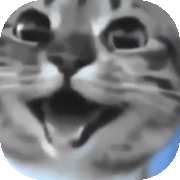
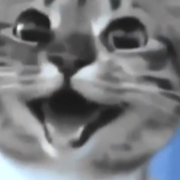
Mais leve: música só baixa quando a pessoa interage, prévia só no PC e só se puder tocar, fontes no próprio site, desenho/troll carregam no primeiro mouse, ícone 61 KB -> 4 KB; celular sem efeitos que repintam a cada quadro
Claude-Session: https://claude.ai/code/session_012FbBvXgu9r4oKB1PUemmbG

diff --git a/index.html b/index.html
@@ -10,10 +10,10 @@
 <body>
 <title>Ärïes</title>
 <meta name="claude:viewport-fit-sides" content="cover">
-<link rel="preconnect" href="https://fonts.googleapis.com">
-<link rel="preconnect" href="https://fonts.gstatic.com" crossorigin>
-<link rel="stylesheet" href="https://fonts.googleapis.com/css2?family=New+Rocker&family=IBM+Plex+Mono:wght@400;500;600&display=swap">
 <style>
+@font-face{font-family:"New Rocker";font-style:normal;font-weight:400;font-display:swap;src:url("assets/fonts/new-rocker.woff2") format("woff2")}
+@font-face{font-family:"IBM Plex Mono";font-style:normal;font-weight:400;font-display:swap;src:url("assets/fonts/plex-mono-400.woff2") format("woff2")}
+@font-face{font-family:"IBM Plex Mono";font-style:normal;font-weight:500 700;font-display:swap;src:url("assets/fonts/plex-mono-500.woff2") format("woff2")}
 /* Layout: tela de entrada com o nome em glitch; depois, um cartão de vidro bem transparente, inclinando em 3D com camadas em paralaxe, sobre fundo preto com glow. */
 :root{
   --ink:#000000;
@@ -52,7 +52,7 @@ body{
 
 /* desenho da esquerda: invisível, revelado por uma "lanterna" que segue o mouse */
 .art-left{position:fixed;left:2.5vw;top:50%;height:min(84vh,1040px);aspect-ratio:675/1200;max-width:28vw;transform:translateY(-50%);z-index:2;opacity:0;
-  background:url("assets/arte-esquerda.webp") center/contain no-repeat;mix-blend-mode:screen;--lx:50%;--ly:50%;
+  background:center/contain no-repeat;mix-blend-mode:screen;--lx:50%;--ly:50%;
   -webkit-mask-image:radial-gradient(300px circle at var(--lx) var(--ly),#000 0%,rgba(0,0,0,.75) 35%,rgba(0,0,0,.12) 70%,transparent 100%);
   mask-image:radial-gradient(300px circle at var(--lx) var(--ly),#000 0%,rgba(0,0,0,.75) 35%,rgba(0,0,0,.12) 70%,transparent 100%);
   transition:opacity .8s ease,transform .8s cubic-bezier(.2,.8,.2,1)}
@@ -94,10 +94,12 @@ body{
   background:#050506;border:1px solid rgba(255,255,255,.18);color:var(--fg);opacity:0;transition:opacity .2s;pointer-events:none;box-shadow:0 0 14px rgba(255,255,255,.12)}
 .side-soc:hover .side-lbl,.side-soc:focus-visible .side-lbl{opacity:1}
 .troll{position:fixed;z-index:2;right:1.5vw;bottom:2vh;width:min(22vw,260px);aspect-ratio:1/.87;--lx:50%;--ly:50%;
-  background:url("assets/troll.webp") center/contain no-repeat;opacity:0;transition:opacity .8s ease;
+  background:center/contain no-repeat;opacity:0;transition:opacity .8s ease;
   -webkit-mask-image:radial-gradient(170px circle at var(--lx) var(--ly),#000 0%,rgba(0,0,0,.7) 40%,transparent 100%);
   mask-image:radial-gradient(170px circle at var(--lx) var(--ly),#000 0%,rgba(0,0,0,.7) 40%,transparent 100%)}
 .troll:hover{opacity:1}
+.hascur .art-left{background-image:url("assets/arte-esquerda.webp")}
+.hascur .troll{background-image:url("assets/troll.webp")}
 @media (max-width:1000px),(hover:none){.side-soc,.troll{display:none}}
 
 /* glitch (nome) */
@@ -389,6 +391,18 @@ body.entered .lay{animation:rise .8s cubic-bezier(.2,.8,.2,1) backwards;animatio
   .vol{width:38px;height:38px}
   .toast{bottom:calc(16px + env(safe-area-inset-bottom,0px))}
 }
+
+/* celular: sem efeitos que repintam sombras a cada quadro */
+@media (hover:none),(max-width:600px){
+  .glass{backdrop-filter:none;-webkit-backdrop-filter:none;background:rgba(7,7,9,.68)}
+  .slab{box-shadow:0 30px 60px -18px rgba(0,0,0,.9),0 0 90px -30px rgba(255,255,255,.12)}
+  .avatar .ring{filter:none;animation-duration:10s}
+  .player{box-shadow:none}
+  .pbtn{box-shadow:0 0 12px rgba(255,255,255,.2)}
+  .edge{animation:none}
+  .sheen{display:none}
+  #aurora{filter:none;opacity:.9}
+}
 @media (prefers-reduced-motion:reduce){*,*::before,*::after{animation:none!important;transition:none!important}}
 </style>
 
@@ -469,8 +483,8 @@ body.entered .lay{animation:rise .8s cubic-bezier(.2,.8,.2,1) backwards;animatio
   </div>
 </div>
 <div class="toast" id="toast" role="status" aria-live="polite"></div>
-<audio id="audio" preload="auto"></audio>
-<audio id="previa" preload="auto" loop src="assets/previa.mp3"></audio>
+<audio id="audio" preload="metadata"></audio>
+<audio id="previa" preload="none" loop></audio>
 
 <script>
 /* ============ EDITE AQUI ============ */
@@ -668,8 +682,11 @@ if (M.src) {
   audio.addEventListener("playing", () => { ensureStart(); setTimeout(() => { ensureStart(); settled = true; }, 400); });
   audio.addEventListener("ended", () => { goStart(); audio.play().catch(()=>{}); });
   audio.addEventListener("error", () => { musicOk = false; player.hidden = true; volbox.hidden = true; });
-  try { const cn = navigator.connection; if (cn && (cn.saveData || /(^|\b)(slow-2g|2g|3g)\b/.test(cn.effectiveType || ""))) { audio.preload = "metadata"; previa.preload = "none"; } } catch(e){}
   audio.src = M.src;
+  /* começa a baixar a música quando a pessoa mexe o mouse, encosta na tela ou aperta uma tecla (antes do clique) */
+  let warmed = false;
+  function warm(){ if (warmed) return; warmed = true; try { const cn = navigator.connection; if (cn && (cn.saveData || /(^|\b)(slow-2g|2g|3g)\b/.test(cn.effectiveType || ""))) return; } catch(e){} audio.preload = "auto"; }
+  ["pointermove", "touchstart", "keydown", "pointerdown"].forEach(ev => addEventListener(ev, warm, { passive: true, once: true }));
 }
 function audioGraph(){
   if (actx || reduce) return;
@@ -760,7 +777,7 @@ function drawViz(t){
     lv[i] += (v - lv[i]) * .35;
     const h = Math.max(1.5, lv[i] * (VH*.95));
     vx.fillStyle = `rgba(255,255,255,${.35 + lv[i]*.65})`;
-    vx.shadowColor = "rgba(255,255,255,.6)"; vx.shadowBlur = 6 * lv[i];
+    if (fine) { vx.shadowColor = "rgba(255,255,255,.6)"; vx.shadowBlur = 6 * lv[i]; }
     const x = i * (bw + gap);
     vx.beginPath(); vx.roundRect ? vx.roundRect(x, mid - h/2, bw, h, Math.min(bw/2, 2)) : vx.rect(x, mid - h/2, bw, h); vx.fill();
   }
@@ -773,7 +790,8 @@ const previa = $("previa");
 let previewDead = false, previewPromise = null;
 function previewVol(){ return Math.max(.08, Math.min(.6, Math.pow(volVal/100, 1.5) * 1.3)); }
 function previewTry(){
-  if (previewDead || document.body.classList.contains("entered") || !M.src) return;
+  if (previewDead || document.body.classList.contains("entered") || !M.src || !fine) return;
+  if (!previa.getAttribute("src")) previa.src = "assets/previa.mp3";
   previa.volume = previewVol();
   try { previewPromise = previa.play().catch(()=>{}); } catch(e){}
 }
@@ -1019,13 +1037,13 @@ addEventListener("pointerdown", e => {
 addEventListener("pointerup", stopAuto); addEventListener("pointercancel", stopAuto); addEventListener("blur", stopAuto); document.addEventListener("mouseleave", stopAuto);
 function draw(t){
   t *= .001;
+  frame++;
+  if (!fine && frame % 2) { requestAnimationFrame(draw); return; }   /* celular: 30 fps */
   const bass = drawViz(t);
-  beat += ((bass > .35 ? (bass - .35) / .65 : 0) - beat) * .25;
-  root.style.setProperty("--beat", beat.toFixed(3));
+  if (fine) { beat += ((bass > .35 ? (bass - .35) / .65 : 0) - beat) * .25; root.style.setProperty("--beat", beat.toFixed(3)); }
   applyTilt();
   const w = A.width, h = A.height;
-  frame++;
-  if (fine || frame % 2 === 0) {
+  if (fine || frame <= 2) {   /* celular: aurora desenhada uma vez, parada */
   ax.globalCompositeOperation = "source-over"; ax.fillStyle = "#000"; ax.fillRect(0,0,w,h);
   ax.globalCompositeOperation = "lighter";
   blobs.forEach((b,i) => {
